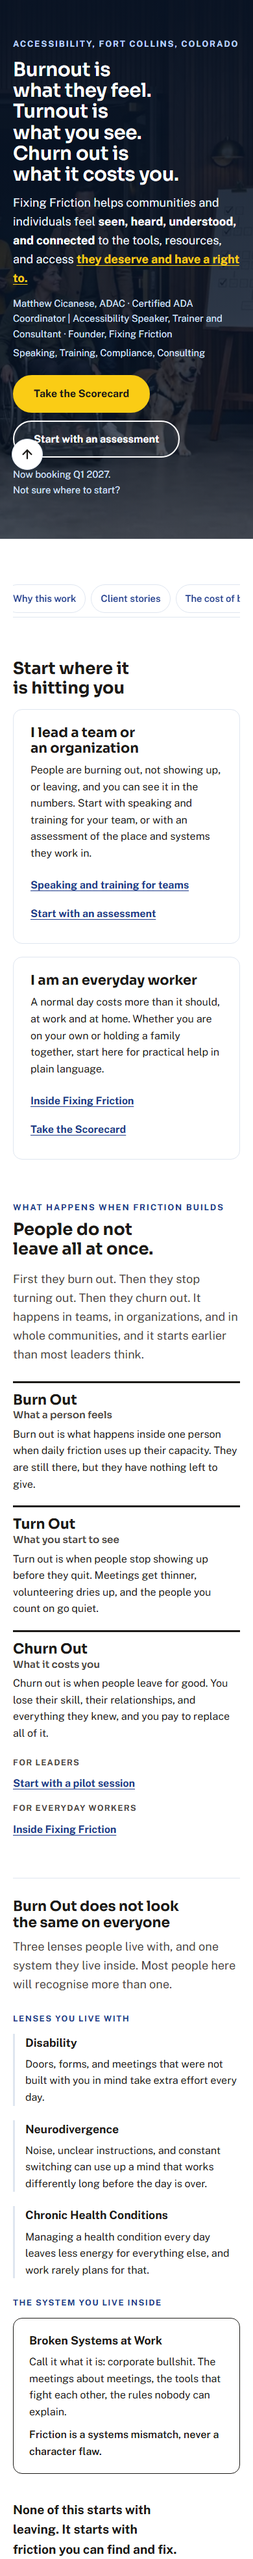
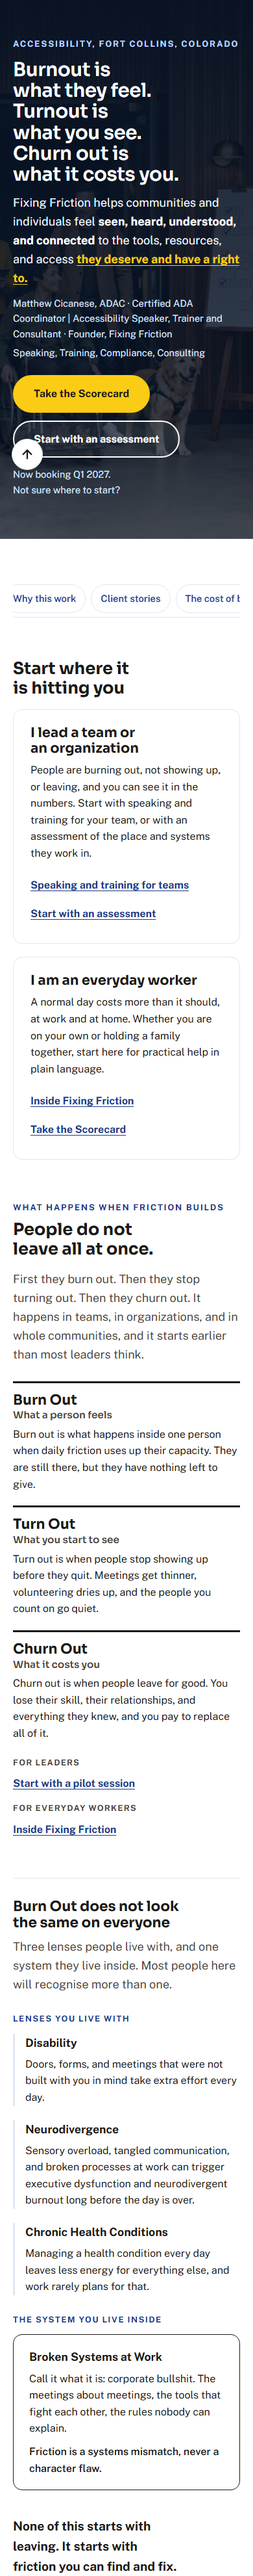
Phase 2: approved Neurodivergence lens sentence

diff --git a/index.html b/index.html
@@ -1855,7 +1855,7 @@
             <h4 class="ff-group">Lenses you live with</h4>
             <ul class="ff-lens-list">
               <li><h5>Disability</h5><p>Doors, forms, and meetings that were not built with you in mind take extra effort every day.</p></li>
-              <li><h5>Neurodivergence</h5><p>Noise, unclear instructions, and constant switching can use up a mind that works differently long before the day is over.</p></li>
+              <li><h5>Neurodivergence</h5><p>Sensory overload, tangled communication, and broken processes at work can trigger executive dysfunction and neurodivergent burnout long before the day is over.</p></li>
               <li><h5>Chronic Health Conditions</h5><p>Managing a health condition every day leaves less energy for everything else, and work rarely plans for that.</p></li>
             </ul>
             <h4 class="ff-group">The system you live inside</h4>
